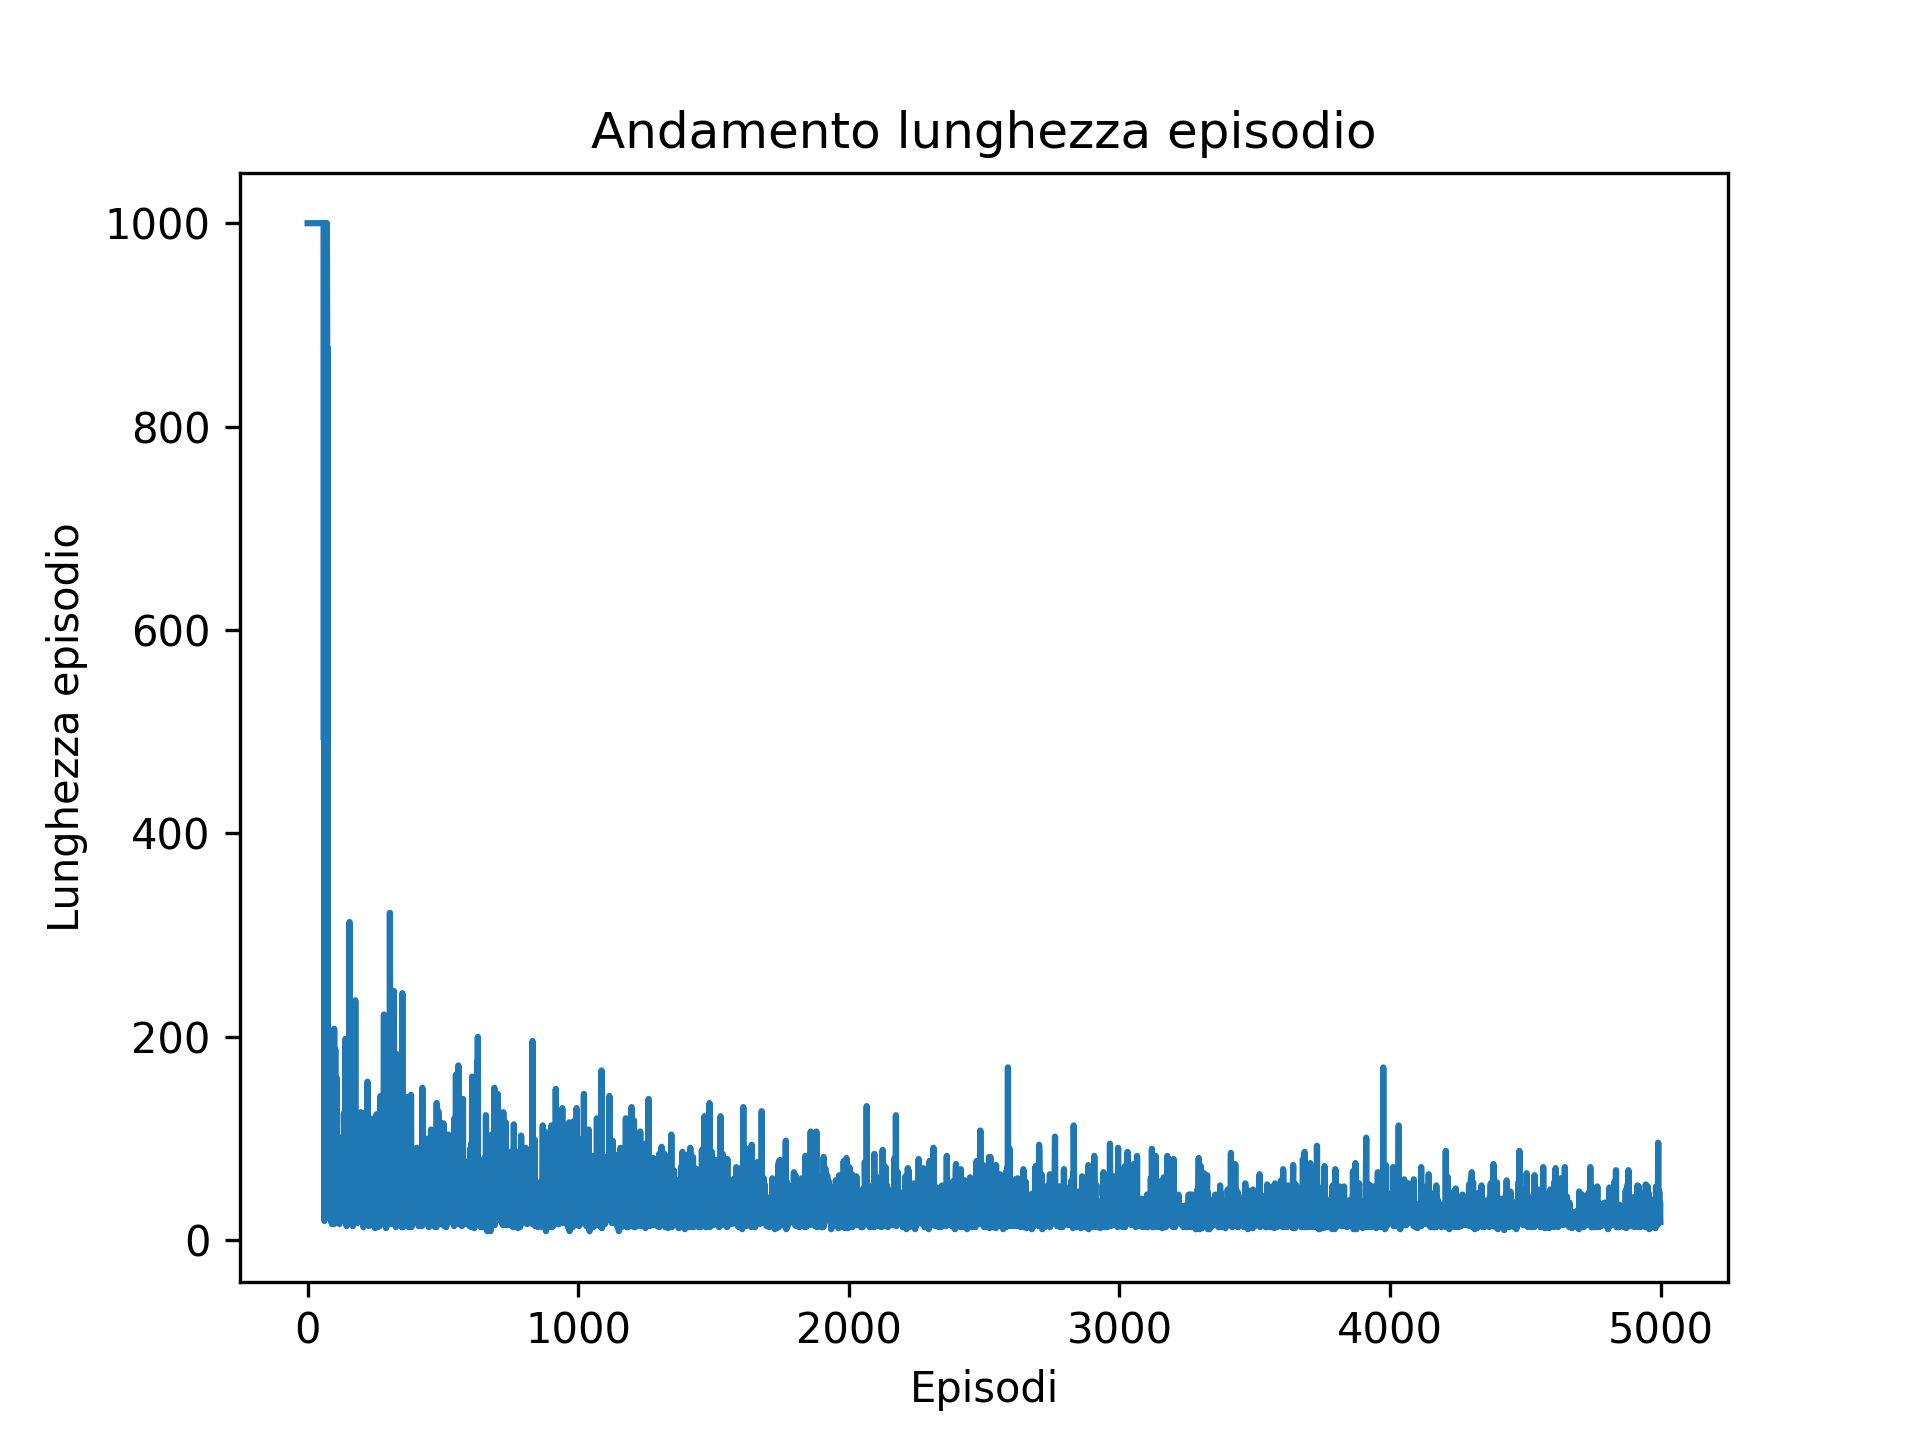
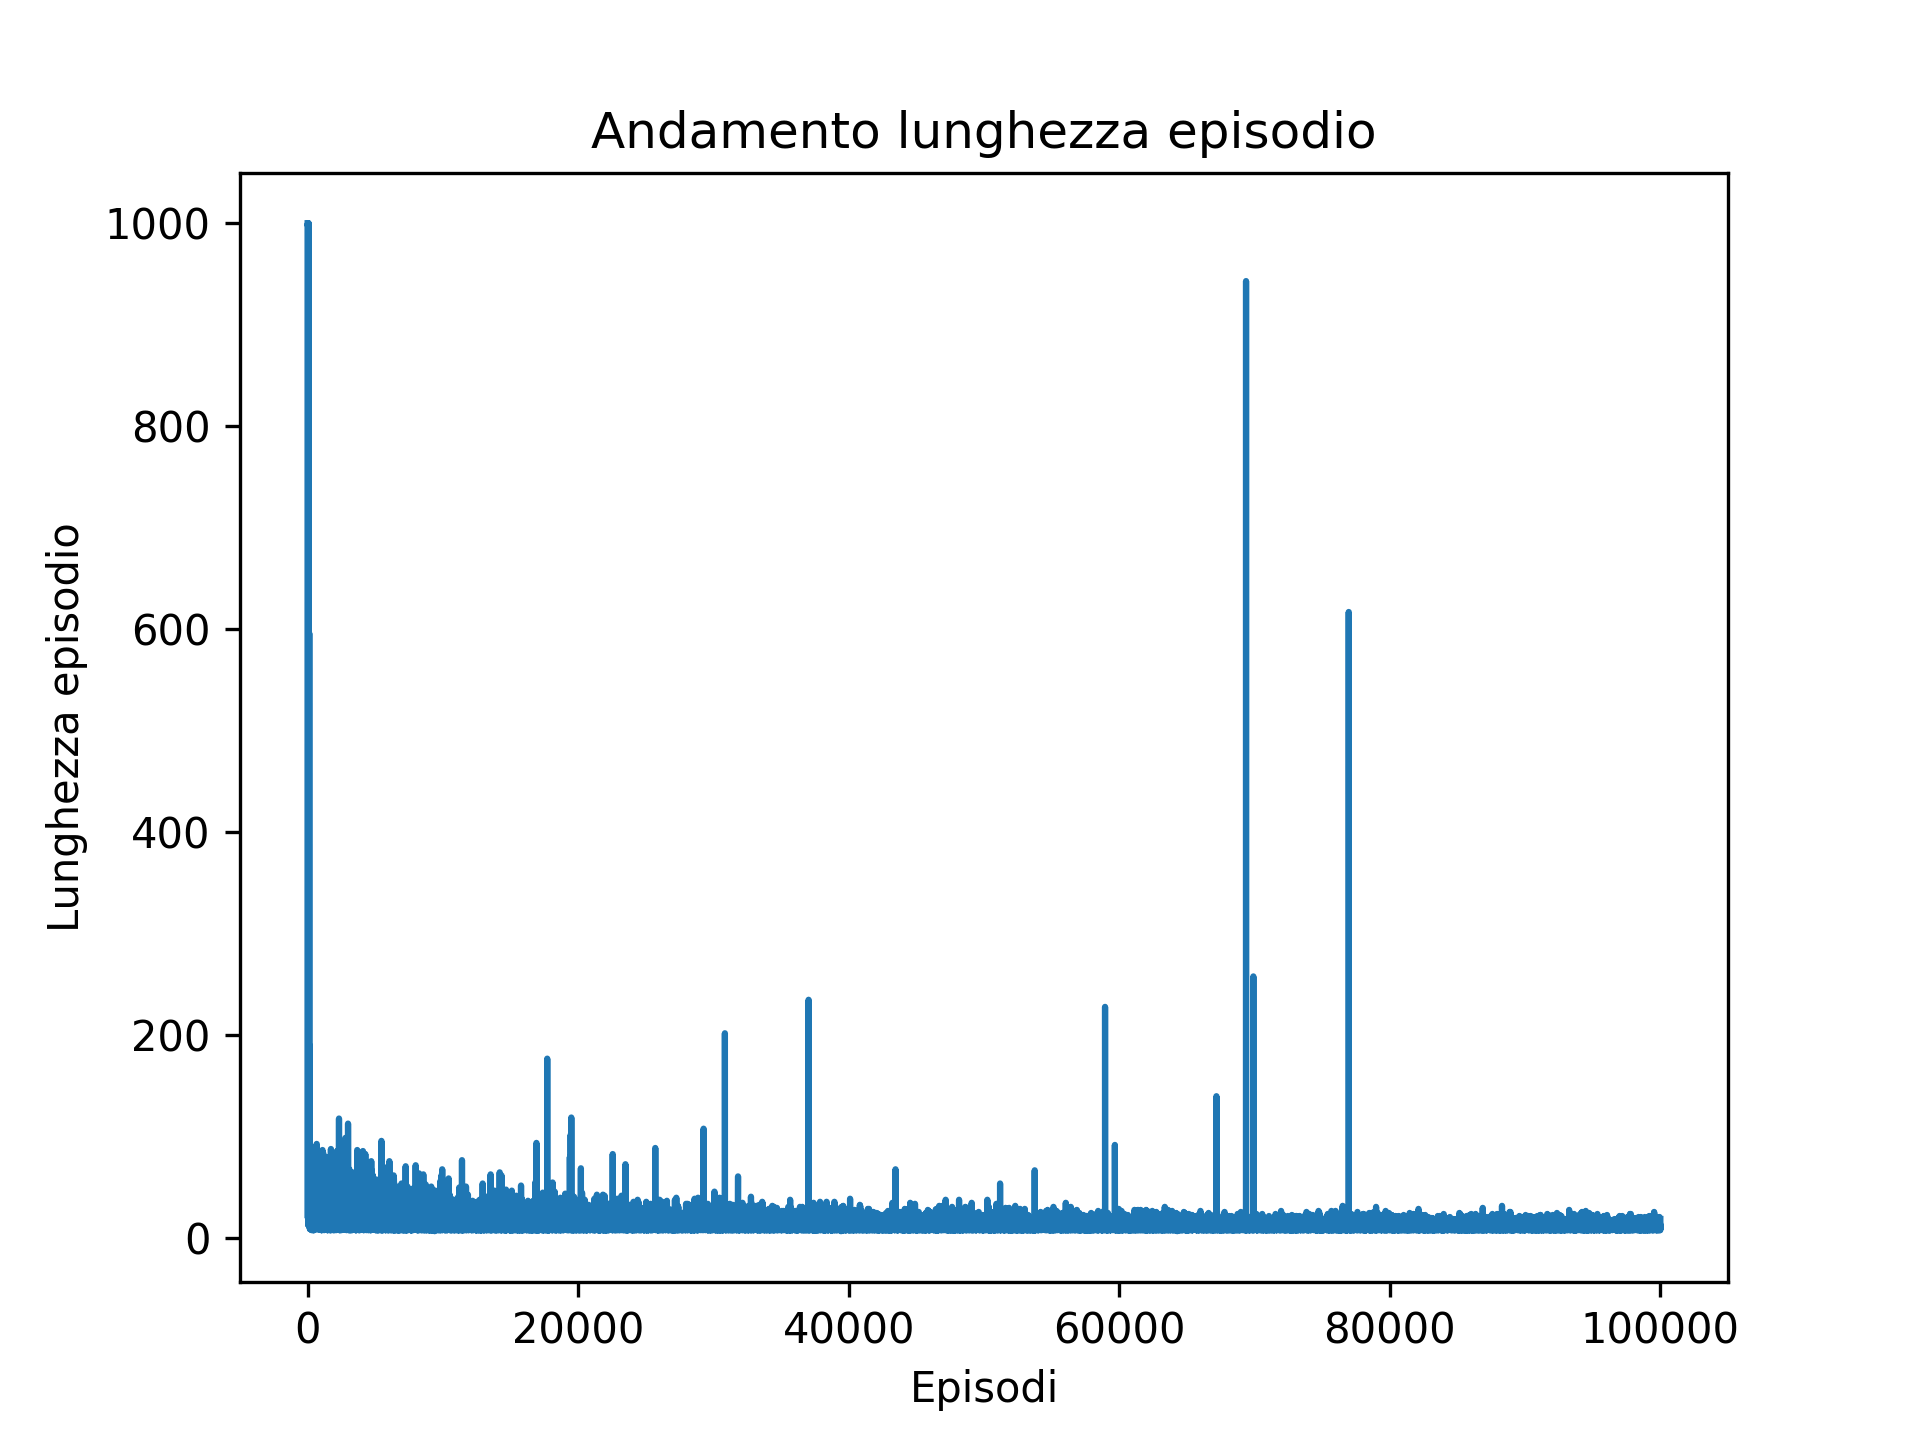
fix

diff --git a/homework ronzello/ractrack/monte_carlo.py b/homework ronzello/ractrack/monte_carlo.py
@@ -115,9 +115,9 @@ def MC(track):
     avg_returns = []
     avg_lengths = []
     eps_initial = 0.1
-    for el in range(5000):#numero episodi
+    for el in range(100_000):#numero episodi
         #print("episodio "+str(el))
-        decay_rate = 0.9995
+        decay_rate = 0.99995
         eps = eps_initial * decay_rate**el
 
         episode = generate_episode(track,pi,eps)
@@ -147,13 +147,13 @@ def graf(pi, Q, avg_returns, avg_lengths):
 
     N1, N2, A = Q.shape
 
-    # Creiamo la griglia di coordinate per il grafico
+
     x = np.arange(N2)
     y = np.arange(N1)
     X, Y = np.meshgrid(x, y)
     actions = [(ao, av) for ao in [-1, 0, 1] for av in [-1, 0, 1]]
 
-    # matrice di vettori per visualizzare la direzione della policy
+
     U = np.zeros_like(pi, dtype=float)  # componente orizzontale
     Vdir = np.zeros_like(pi, dtype=float)  # componente verticale
 
@@ -162,9 +162,9 @@ def graf(pi, Q, avg_returns, avg_lengths):
             if track[i, j] != -1:
                 ao, av = actions[pi[i, j]]
                 U[i, j] = ao
-                Vdir[i, j] = -av  # inverti per coerenza con assi immagine
+                Vdir[i, j] = -av
 
-    # Grafico policy come campo vettoriale (freccette)
+    # Grafico policy come campo vettoriale
     plt.figure(figsize=(14, 6))
 
     plt.subplot(1, 2, 1)
@@ -364,7 +364,9 @@ def run_policy_visual(track, pi, max_steps=500, interval=200, Vmax=5, save=False
 if __name__ == "__main__":
     N1=20
     N2=20
+    np.random.seed(42)
     track = create_track(N1,N2)
+
 
     pi, Q, returns, lengths = MC(track)
     graf(pi, Q, returns, lengths)
